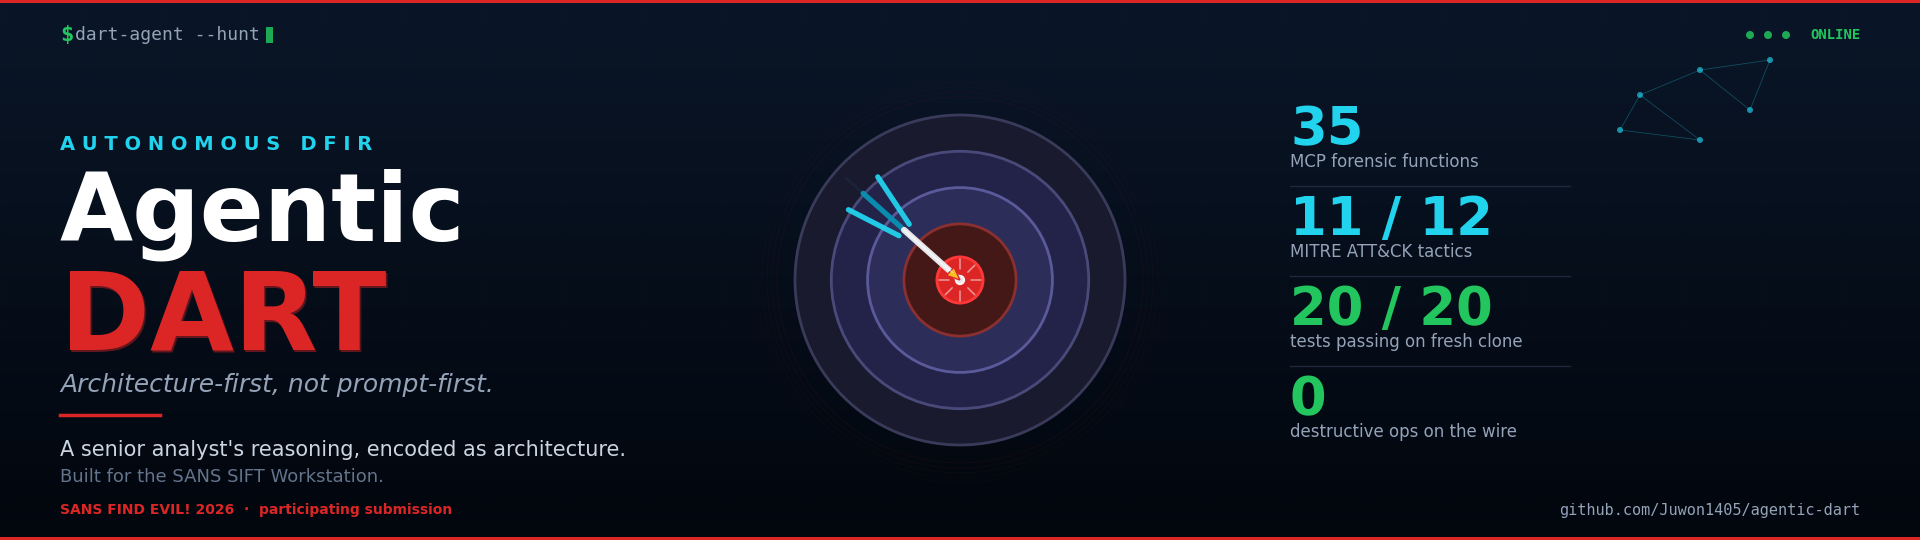
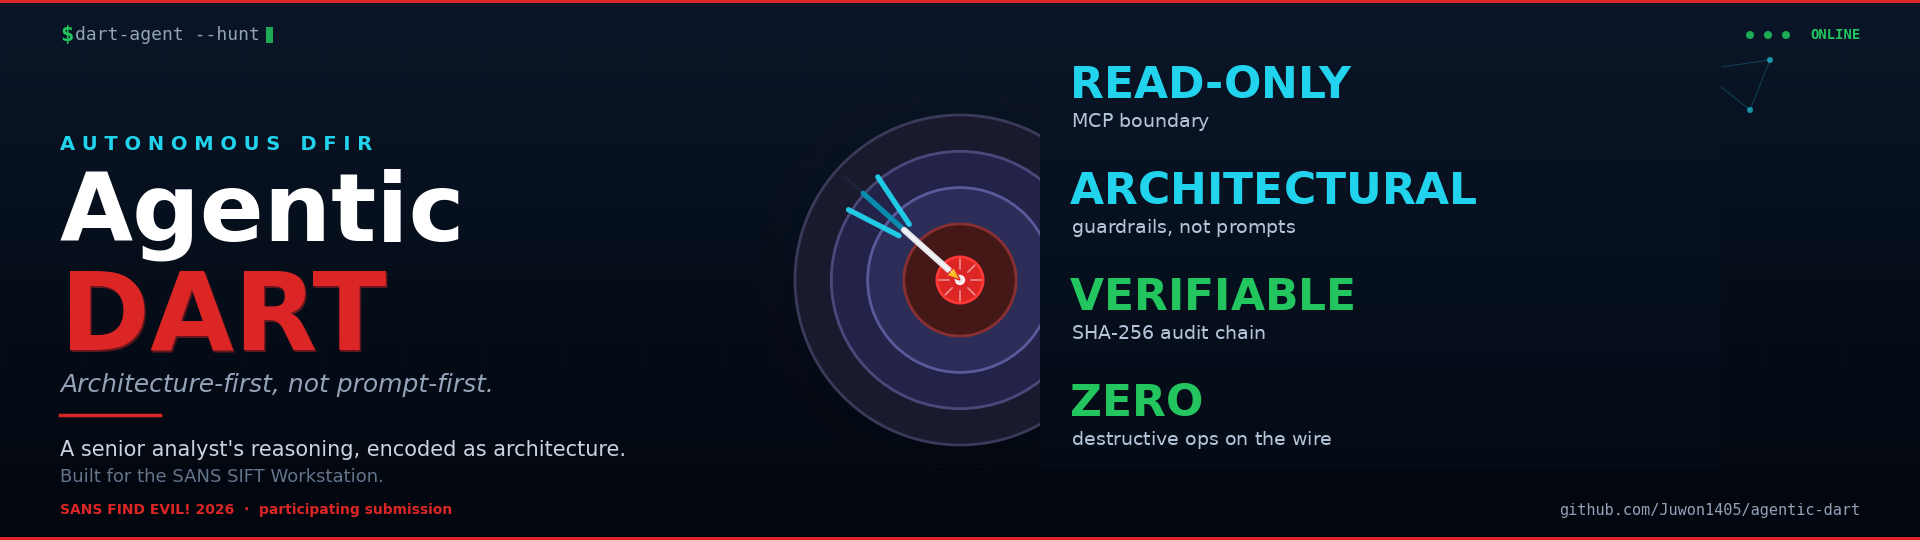
chore(visuals): replace embedded numbers with evergreen design principles
== Why ==

Per design-ops principle: 'images and badges should encode invariant
identity, not metrics that drift'. The previous hero embedded 4 stats
(35, 11/12, 20/20, 0) — three of which had already gone stale (35 -> 60
after the v0.5 SIFT adapter layer; 20/20 -> 22/22 after the new tests
landed). This commit moves to a no-numbers-in-images regime.

== What changed ==

agentic-dart-hero.png — REGENERATED
  Previous (stat block, top-right):
    35       MCP forensic functions
    11/12    MITRE ATT&CK tactics
    20/20    tests passing on fresh clone
    0        destructive ops on the wire
  Now:
    READ-ONLY       MCP boundary
    ARCHITECTURAL   guardrails, not prompts
    VERIFIABLE      SHA-256 audit chain
    ZERO            destructive ops on the wire
  Same visual rhythm, same color palette (cyan + green), same layout —
  but every entry now describes a permanent design property of the
  system, not a count that needs maintenance.

  Original archived to docs/agentic-dart-hero-v0.4.png for history.

agentic-dart-thumbnail.png — UNCHANGED
  Already evergreen (no numbers).

dart-architecture.png — UNCHANGED
  Already evergreen (only 6 example function names, no counts).

README.md badges — REGEN to evergreen
  - MITRE ATT&CK-11/12 tactics    -> MITRE ATT&CK aligned
  - MCP tools-35 native + 25 SIFT -> MCP read-only
  - tests-20/20 passing           -> audit SHA-256 chained
  (last one was already stale — 22/22 after v0.5 SIFT tests landed)
[…]

diff --git a/scripts/regenerate_hero.py b/scripts/regenerate_hero.py
@@ -1,0 +1,127 @@
+#!/usr/bin/env python3
+"""
+regenerate_hero.py — Replace the stale stat-block numbers in
+agentic-dart-hero.png with evergreen design-principle words.
+
+The original hero embeds 4 stats:
+    35       MCP forensic functions
+    11/12    MITRE ATT&CK tactics
+    20/20    tests passing on fresh clone
+    0        destructive ops on the wire
+
+These numbers go stale every time we add a tool, ship a test, or expand
+ATT&CK coverage. The "0" is permanent (architectural invariant), but the
+other three need to be replaced with words that ARE permanent design
+principles, not metrics.
+
+We keep the hero's visual identity (big-text + small-label pattern,
+two-color palette: cyan + green) while making it impossible to go stale.
+"""
+from PIL import Image, ImageDraw, ImageFont
+from pathlib import Path
+import sys
+
+HERO_IN = Path("docs/agentic-dart-hero-v0.4.png")  # use the archived original as source
+HERO_OUT = Path("agentic-dart-hero.png")
+ARCHIVE = Path("docs/agentic-dart-hero-v0.4.png")  # already archived
+
+# Color palette (sampled from original)
+BG_TOP    = (9, 20, 37, 255)        # top of stat block (y=60)
+BG_BOTTOM = (4, 11, 22, 255)        # bottom of stat block (y=410)
+CYAN      = (34, 211, 238, 255)     # #22D3EE — primary accent
+GREEN     = (34, 197, 94, 255)      # #22C55E — success accent
+LABEL_GRY = (180, 195, 215, 255)    # soft gray for sub-labels
+
+# Stat block region — derived from pixel scan of original.
+# Cyan glyphs detected at (1350,120), green glyphs at (1300,390).
+# Existing residual label "destructive ops on the wire" extended past y=410,
+# so we extend the wipe region down to y=470 to cover all original content
+# while staying clear of the bottom red rule line.
+STAT_X0, STAT_Y0 = 1040, 45
+STAT_X1, STAT_Y1 = 1720, 470
+
+
+def find_font(candidates, size):
+    """Try a list of font paths and return the first that works."""
+    for path in candidates:
+        try:
+            return ImageFont.truetype(path, size)
+        except (OSError, IOError):
+            continue
+    # Fallback to PIL default (poor but won't crash)
+    return ImageFont.load_default()
+
+
+def main():
+    if not HERO_IN.exists():
+        print(f"ERROR: {HERO_IN} not found", file=sys.stderr)
+        sys.exit(1)
+
+    img = Image.open(HERO_IN).convert("RGBA")
+    draw = ImageDraw.Draw(img)
+    print(f"Loaded hero: {img.size}")
+
+    # ─── 1. Wipe the stat block area with a vertical gradient ──────────
+    # The original background isn't a flat color — it gradually darkens
+    # from top to bottom. Flat-fill rectangles look like patches; a
+    # gradient blends in seamlessly.
+    h = STAT_Y1 - STAT_Y0
+    for dy in range(h):
+        t = dy / max(h - 1, 1)
+        r = round(BG_TOP[0] + t * (BG_BOTTOM[0] - BG_TOP[0]))
+        g = round(BG_TOP[1] + t * (BG_BOTTOM[1] - BG_TOP[1]))
+        b = round(BG_TOP[2] + t * (BG_BOTTOM[2] - BG_TOP[2]))
+        draw.line([(STAT_X0, STAT_Y0 + dy), (STAT_X1, STAT_Y0 + dy)],
+                  fill=(r, g, b, 255))
+
+    # ─── 2. Pick fonts ──────────────────────────────────────────────────
+    bold_candidates = [
+        "/usr/share/fonts/truetype/dejavu/DejaVuSans-Bold.ttf",
+        "/usr/share/fonts/truetype/liberation/LiberationSans-Bold.ttf",
+        "/usr/share/fonts/truetype/freefont/FreeSansBold.ttf",
+    ]
+    regular_candidates = [
+        "/usr/share/fonts/truetype/dejavu/DejaVuSans.ttf",
+        "/usr/share/fonts/truetype/liberation/LiberationSans-Regular.ttf",
+        "/usr/share/fonts/truetype/freefont/FreeSans.ttf",
+    ]
+    big_font   = find_font(bold_candidates, 44)   # for primary words
+    label_font = find_font(regular_candidates, 19)  # for sub-labels
+
+    # ─── 3. Four evergreen entries (replace the stat block content) ─────
+    # Layout: 4 entries vertically, equal spacing
+    # Original was 4 entries stacked: 35 / 11/12 / 20/20 / 0
+    # We keep the same vertical rhythm but with words.
+    entries = [
+        ("READ-ONLY",     "MCP boundary",                    CYAN),
+        ("ARCHITECTURAL", "guardrails, not prompts",         CYAN),
+        ("VERIFIABLE",    "SHA-256 audit chain",             GREEN),
+        ("ZERO",          "destructive ops on the wire",     GREEN),
+    ]
+
+    # Vertical spacing inside the stat block region
+    block_height = STAT_Y1 - STAT_Y0
+    entry_height = block_height // len(entries)
+
+    for i, (big, sub, color) in enumerate(entries):
+        # Entry top — give a small top padding within each cell
+        ey0 = STAT_Y0 + i * entry_height + 12
+
+        # Big word — left-aligned, with a comfortable left margin
+        draw.text((STAT_X0 + 30, ey0), big, font=big_font, fill=color)
+
+        # Sub-label one line below (matches font height of 44 → ~52px below)
+        sub_y = ey0 + 52
+        draw.text((STAT_X0 + 32, sub_y), sub, font=label_font, fill=LABEL_GRY)
+
+    # ─── 4. Source is the archived original — no need to re-archive ─────
+    # (HERO_IN already points to docs/agentic-dart-hero-v0.4.png)
+
+    # ─── 5. Save ────────────────────────────────────────────────────────
+    img.save(HERO_OUT, optimize=True)
+    print(f"Saved evergreen hero → {HERO_OUT}")
+    print(f"   Size: {HERO_OUT.stat().st_size // 1024} KB")
+
+
+if __name__ == "__main__":
+    main()

diff --git a/README.md b/README.md
@@ -6,9 +6,9 @@
   <a href="./LICENSE"><img src="https://img.shields.io/badge/license-MIT-blue.svg" alt="License: MIT"></a>
   <a href="https://www.python.org"><img src="https://img.shields.io/badge/python-3.10%2B-blue.svg" alt="Python 3.10+"></a>
   <a href="https://findevil.devpost.com/"><img src="https://img.shields.io/badge/SANS%20FIND%20EVIL%21-2026-dc2626.svg" alt="SANS FIND EVIL! 2026"></a>
-  <img src="https://img.shields.io/badge/MITRE%20ATT%26CK-11%2F12%20tactics-4F46E5.svg" alt="MITRE ATT&CK 11/12">
-  <img src="https://img.shields.io/badge/MCP%20tools-35%20native%20%2B%2025%20SIFT-1A73E8.svg" alt="MCP tools 35+25">
-  <img src="https://img.shields.io/badge/tests-20%2F20%20passing-22c55e.svg" alt="tests 20/20">
+  <img src="https://img.shields.io/badge/MITRE%20ATT%26CK-aligned-4F46E5.svg" alt="MITRE ATT&CK aligned">
+  <img src="https://img.shields.io/badge/MCP-read--only-1A73E8.svg" alt="MCP read-only">
+  <img src="https://img.shields.io/badge/audit-SHA--256%20chained-22c55e.svg" alt="audit SHA-256 chained">
 </p>
 
 # Agentic-DART — Autonomous DFIR Agent on SANS SIFT Workstation
